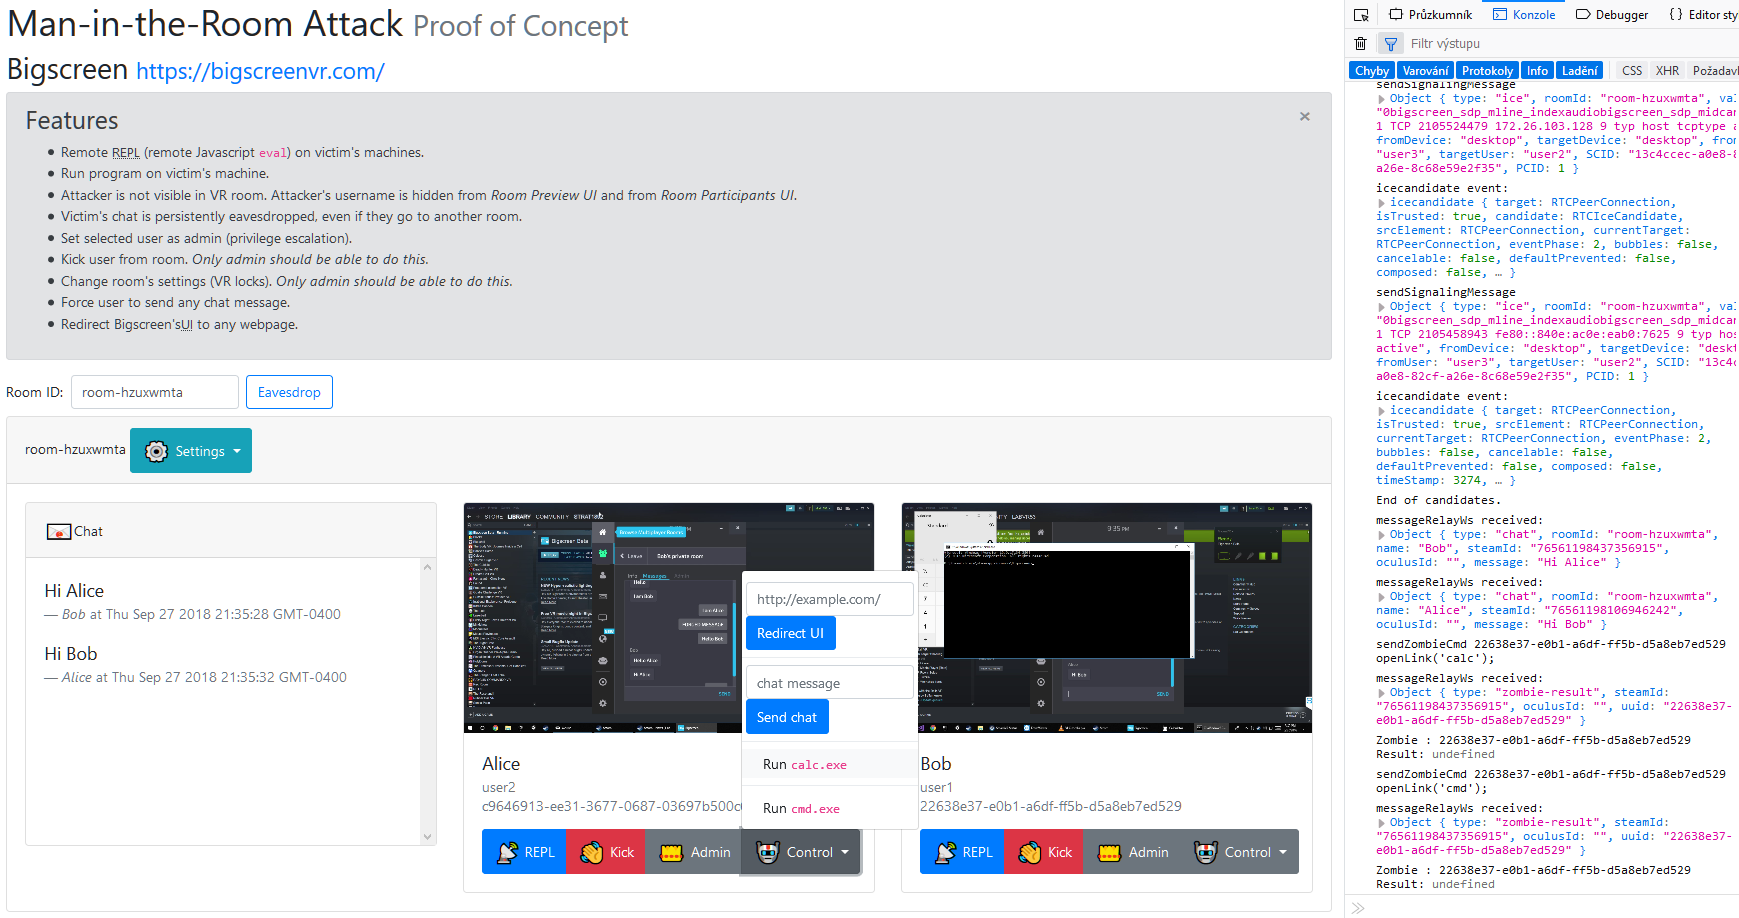
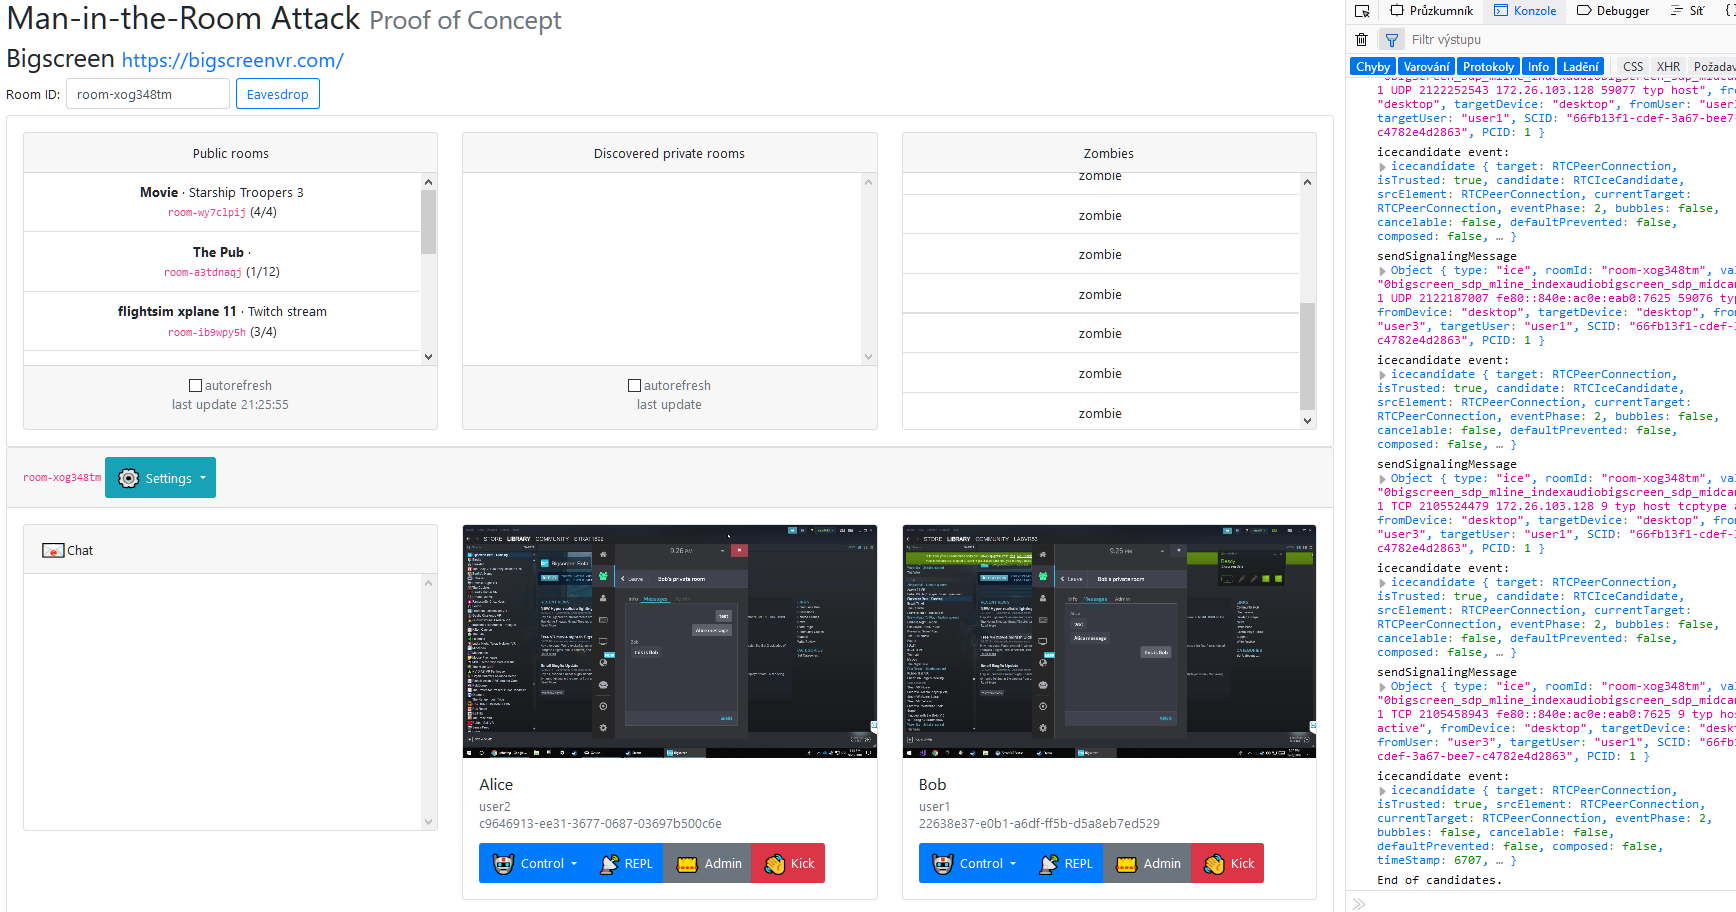
C2: Public rooms polling

diff --git a/web-client/index.html b/web-client/index.html
@@ -49,6 +49,51 @@
             </form>
         </div>
     </div>
+    <div class="row"><div class="col-sm">
+        <div class="card"><div class="card-body">
+            <div class="card-deck">
+                <div class="card text-center" id="publicRooms">
+                    <div class="card-header">Public rooms</div>
+                    <ul class="list-group list-group-flush roomList"></ul>
+                    <div class="card-footer text-muted roomList-footer">
+                       <div class="form-check">
+                            <input class="form-check-input" type="checkbox" value="" id="publicRoomsAutorefresh">
+                            <label class="form-check-label" for="publicRoomsAutorefresh">autorefresh</label>
+                        </div>
+                        last update <time></time>
+                    </div>
+                </div>
+                <div class="card text-center">
+                    <div class="card-header">Discovered private rooms</div>
+                    <ul class="list-group list-group-flush roomList"></ul>
+                    <div class="card-footer text-muted roomList-footer">
+                       <div class="form-check">
+                            <input class="form-check-input" type="checkbox" value="" id="privateRoomsAutorefresh">
+                            <label class="form-check-label" for="privateRoomsAutorefresh">autorefresh</label>
+                        </div>
+                        last update <time></time>
+                    </div>
+                </div>
+                <div class="card text-center">
+                    <div class="card-header">Zombies</div>
+                    <ul class="list-group list-group-flush zombieList">
+                        <li class="list-group-item">zombie</li>
+                        <li class="list-group-item">zombie</li>
+                        <li class="list-group-item">zombie</li>
+                        <li class="list-group-item">zombie</li>
+                        <li class="list-group-item">zombie</li>
+                        <li class="list-group-item">zombie</li>
+                        <li class="list-group-item">zombie</li>
+                        <li class="list-group-item">zombie</li>
+                        <li class="list-group-item">zombie</li>
+                        <li class="list-group-item">zombie</li>
+                        <li class="list-group-item">zombie</li>
+                        <li class="list-group-item">zombie</li>
+                    </ul>
+                </div>
+            </div>
+        </div></div>
+    </div></div>
 
 
 
@@ -458,7 +503,7 @@ function RoomUI(roomId, room){
     roomCardTempalte.innerHTML =
         '<div class="card">\n' +
         '    <div class="card-header">' +
-        '       <span></span>' +
+        '       <code></code>' +
         '       <div class="dropdown display-inline-block">\n' +
         '           <button class="btn btn-info dropdown-toggle" type="button" data-toggle="dropdown">' +
         '               <b class="icon">⚙</b>' +
@@ -518,7 +563,7 @@ function RoomUI(roomId, room){
         that.room.updateLockSettings(locks);
     });
 
-    this.roomIdElement = this.roomCardElement.querySelector('.card-header span');
+    this.roomIdElement = this.roomCardElement.querySelector('.card-header code');
     this.roomIdElement.appendChild(document.createTextNode(roomId));
 
     this.chatBodyElement = this.roomCardElement.querySelector('div div div div div.card-body');
@@ -1021,6 +1066,120 @@ messageRelayWs.onmessage = function(event){
             console.warn('messageRelayWs unexpected message');
     }
 };
+
+
+function PublicRooms(){
+    let that = this;
+    this.sendSignalingMessage = function(message) {
+        this.signalingWs.send(msgpack.encode(message));
+    };
+    this.onSignalingMessage = function(event){
+        let message = msgpack.decode(new Uint8Array(event.data));
+        if(message.type === 'room-latest'){
+            let rooms = message.rooms;
+            that.publicRoomsUI.hideAllRooms();
+            rooms.forEach(function(room){
+                that.publicRoomsUI.addRoom(room);
+            });
+        }
+        else{
+            console.warn('WARN', 'PublicRooms.onSignalingMessage: Unexpected message:', message);
+        }
+    };
+
+    this.publicRoomsUI = new PublicRoomsUI(this);
+    this.intervalId = null;
+
+    this.signalingWs = new WebSocket(bigscreenSignalUrl);
+    this.signalingWs.binaryType = 'arraybuffer';
+    this.signalingWs.onopen = function (event) {
+        that.sendSignalingMessage({type: 'register-desktop'});
+    };
+    this.signalingWs.onclose = function (event) {
+        console.debug('PublicRoomson.signalingWs.onclose', event);
+    };
+    this.signalingWs.onmessage = function (event) {
+        that.onSignalingMessage(event);
+    };
+    this.signalingWs.onerror = function (event) {
+        console.error('ERROR', 'PublicRooms.signalingWs.onerror', event);
+
+    };
+
+    this.startPeriodicUpdates = function(){
+        if(this.intervalId !== null){
+            console.error('ERROR', 'Periodic updates already started.');
+            return;
+        }
+
+        that.sendSignalingMessage({type: "room-latest"}); // update now
+        this.intervalId = setInterval(function(){
+            that.sendSignalingMessage({type: "room-latest"});
+        },5000); // NOTE: original Bigscreen application uses interval 5000
+    };
+
+    this.stopPeriodicUpdates = function(){
+        if(this.intervalId === null){
+            console.error('ERROR', 'Cannot stop. Periodic updates are not running.');
+            return;
+        }
+        clearInterval(this.intervalId);
+        this.intervalId = null;
+    };
+
+    this.togglePeriodicUpdates = function(){
+        if(this.intervalId === null){
+            this.startPeriodicUpdates();
+        }
+        else{
+            this.stopPeriodicUpdates();
+        }
+    }
+}
+
+function PublicRoomsUI(publicRooms){
+    // TODO Maybe dynamically insert html
+    let that = this;
+    this.publicRooms = publicRooms;
+    this.publicRoomsCardElement = document.getElementById('publicRooms');
+    this.publicRoomsListElement = this.publicRoomsCardElement.getElementsByTagName('ul')[0];
+    this.updatedTimeElement = this.publicRoomsCardElement.querySelector('.card-footer time');
+    this.autorefreshInput = this.publicRoomsCardElement.querySelector('.card-footer .form-check input');
+    this.autorefreshInput.checked = false;
+
+    this.hideAllRooms = function(){
+        this.publicRoomsListElement.innerHTML = '';
+    };
+
+    this.addRoom = function(room){
+        let roomElement = document.createElement('li');
+        roomElement.classList.add('list-group-item');
+        let nameElement = document.createElement('b');
+        nameElement.appendChild(document.createTextNode(room.name));
+        roomElement.appendChild(nameElement);
+        roomElement.appendChild(document.createTextNode(' · ' + room.description));
+        roomElement.appendChild(document.createElement('br'));
+        let roomIdElement = document.createElement('code');
+        roomIdElement.appendChild(document.createTextNode(room.roomId));
+        roomElement.appendChild(roomIdElement);
+        roomElement.appendChild(document.createTextNode(' (' + room.participants + '/' + room.size + ')'));
+        this.publicRoomsListElement.appendChild(roomElement);
+        this.updateFooter(); // TODO maybe update after all added rooms
+    };
+
+    this.updateFooter = function(){
+        this.updatedTimeElement.innerHTML = '';
+        this.updatedTimeElement.appendChild(
+            document.createTextNode((new Date).toLocaleTimeString())
+        );
+    };
+
+    this.autorefreshInput.addEventListener("click", function (event) {
+        that.publicRooms.togglePeriodicUpdates();
+    });
+}
+
+let publicRooms = new PublicRooms();
 
 </script>
 </body>

diff --git a/web-client/main.css b/web-client/main.css
@@ -14,3 +14,14 @@
     font-size: x-large;
     vertical-align: sub;
 }
+.roomList {
+    height: 15em;
+    overflow-y: scroll;
+}
+.roomList-footer {
+    height: 5em;
+}
+.zombieList {
+    height: 20em;
+    overflow-y: scroll;
+}
